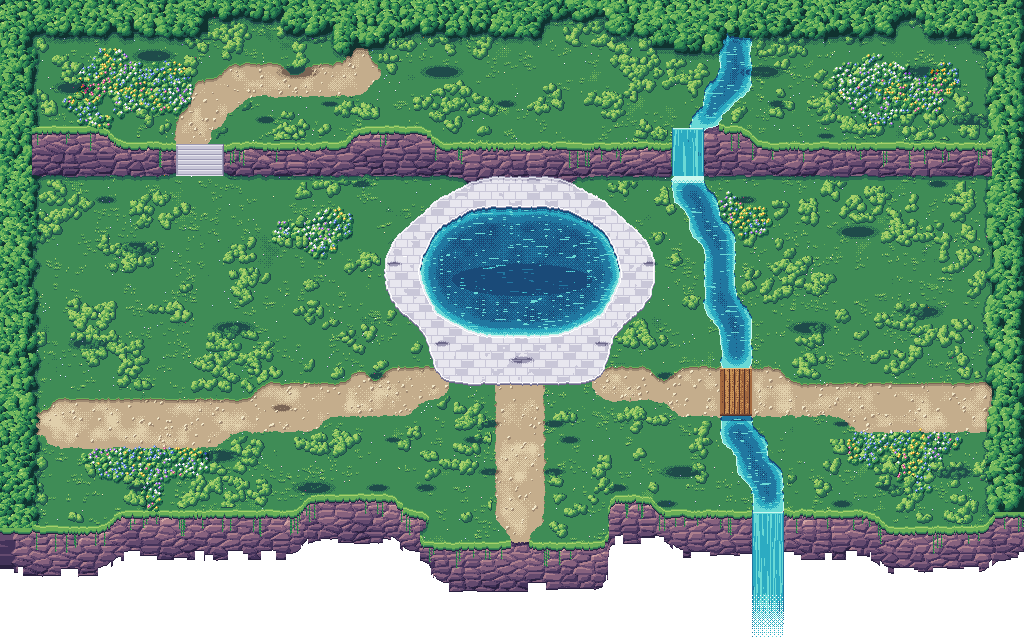
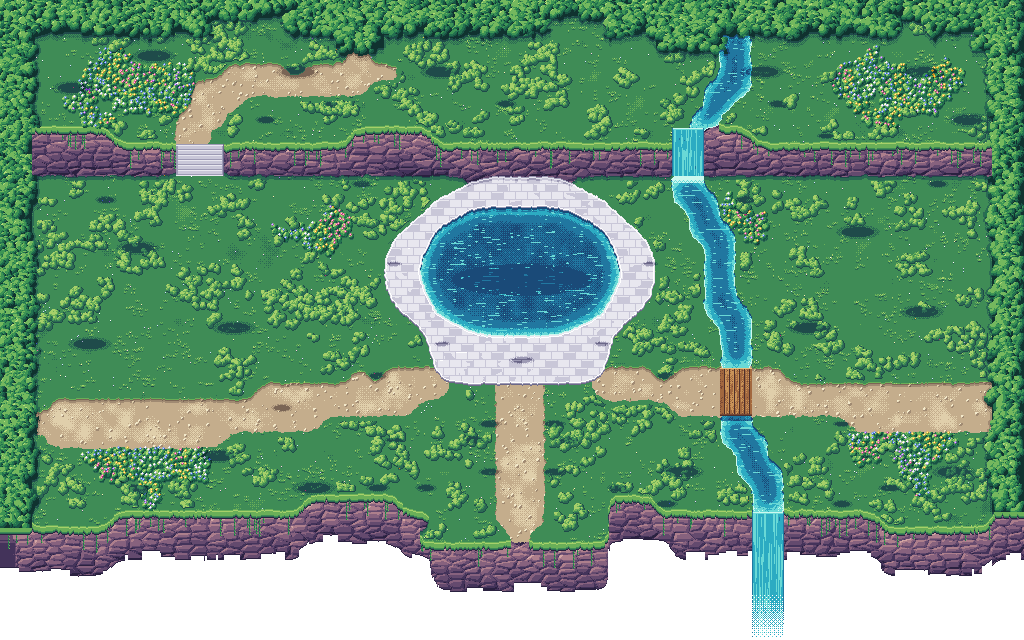
Wassergrund mit Kieseln, Ufergischt, Elysia-Bewohner im Gleichschritt, weniger Lichter im Wald
Claude-Session: https://claude.ai/code/session_01MUvc7wLd8uPstUN1FX6NTf

diff --git a/tools/art/make_character.py b/tools/art/make_character.py
@@ -45,6 +45,22 @@ DESIGNS = {
         "outfit": "jacket",
         "bag": "satchel",
     },
+    # Elysians: flawless white and gold, all a little too alike (Game Bible §9).
+    "elysian": {
+        "skin": ramp("#8a5048", "#c8846a", "#eeb894", "#ffe0c4"),
+        "hair": ramp("#6a4210", "#a8701c", "#d8a832", "#f4d46a", "#fff2b8"),
+        "top": ramp("#7c7096", "#b8b0cc", "#e8e4f0", "#ffffff"),
+        "inner": ramp("#8a6a18", "#c4982a", "#ecc84e", "#fff0a0"),
+        "belt": ramp("#6a4c14", "#a87c22", "#dcb040", "#fbe48a"),
+        "pants": ramp("#6e6688", "#a49cbc", "#d6d0e4", "#f6f4fb"),
+        "boots": ramp("#5a4214", "#94701e", "#c89c34", "#ecd070"),
+        "eye": pa.hex_rgb("#2a1f48"),
+        "blush": pa.hex_rgb("#f0a090"),
+        "outline": pa.hex_rgb("#3a2e58"),
+        "hair_style": "tousled",
+        "outfit": "cape",
+        "bag": "none",
+    },
     # Mira: practical traveler in the valley. Mustard rain cape, auburn ponytail, backpack.
     "mira": {
         "skin": ramp("#7a4438", "#b56f55", "#dea27e", "#f6cfae"),

diff --git a/tools/art/make_sprites.py b/tools/art/make_sprites.py
@@ -980,8 +980,7 @@ def build():
     for cap, color in (("cap_cyan", "#62e6f2"), ("cap_violet", "#a07cff"), ("cap_pink", "#f278d8")):
         ms = [mushrooms(210 + k + len(cap), cap) for k in range(2)]
         save("wald", "mushrooms_" + cap[4:], [m[0] for m in ms], (12, 18), emissive=[m[1] for m in ms],
-             glow={"offset": [0, -9], "color": color, "radius": 20},
-             lights=[{"offset": [0, -8], "color": color, "energy": 0.6, "range": 40}])
+             glow={"offset": [0, -9], "color": color, "radius": 22})
     cc = [crystal_cluster(220 + k) for k in range(2)]
     save("wald", "crystals", [x[0] for x in cc], (15, 27), emissive=[x[1] for x in cc],
          shape={"rect": [22, 8], "offset": [0, -3]}, shadow=[13, 4],

diff --git a/tools/art/bake_ground.py b/tools/art/bake_ground.py
@@ -407,7 +407,11 @@ class Baker:
         depth = pa.box_blur(wt.astype(np.float32), 9)
         deep = np.clip((depth - 0.5) * 2.0, 0, 1)
         v = 0.8 - 0.68 * deep + 0.05 * centered(self.noise(12))
-        self.put(wt, "water", v, contrast=2.0)
+        # pebbles on the bed show through where the water is shallow
+        f1, f2, _ = pa.worley(self.h, self.w, 6, self.rng, 0.9)
+        bed = np.clip(1.0 - deep * 1.6, 0, 1)
+        v = v + np.where(f2 - f1 < 1.0, -0.12, 0.05) * bed
+        self.put(wt, "water", v, contrast=2.6)
         planks = getattr(self, "planks", np.zeros_like(wt))
         land = ~wt & ~is_["void"] & ~planks & ~is_["fall"]
         bank = within_below(land, 4) & wt

diff --git a/tools/art/layout_look_maps.py b/tools/art/layout_look_maps.py
@@ -149,6 +149,7 @@ def elysia():
         "b": [(31, 33)],
         "F": [(x, 33) for x in range(26, 38) if x not in (31, 32)],
         "x": [(42, 11)],
+        "E": [(13, 26), (47, 25), (24, 4)],
         "@": [(10, 26)],
     }
     for c, pts in props.items():
